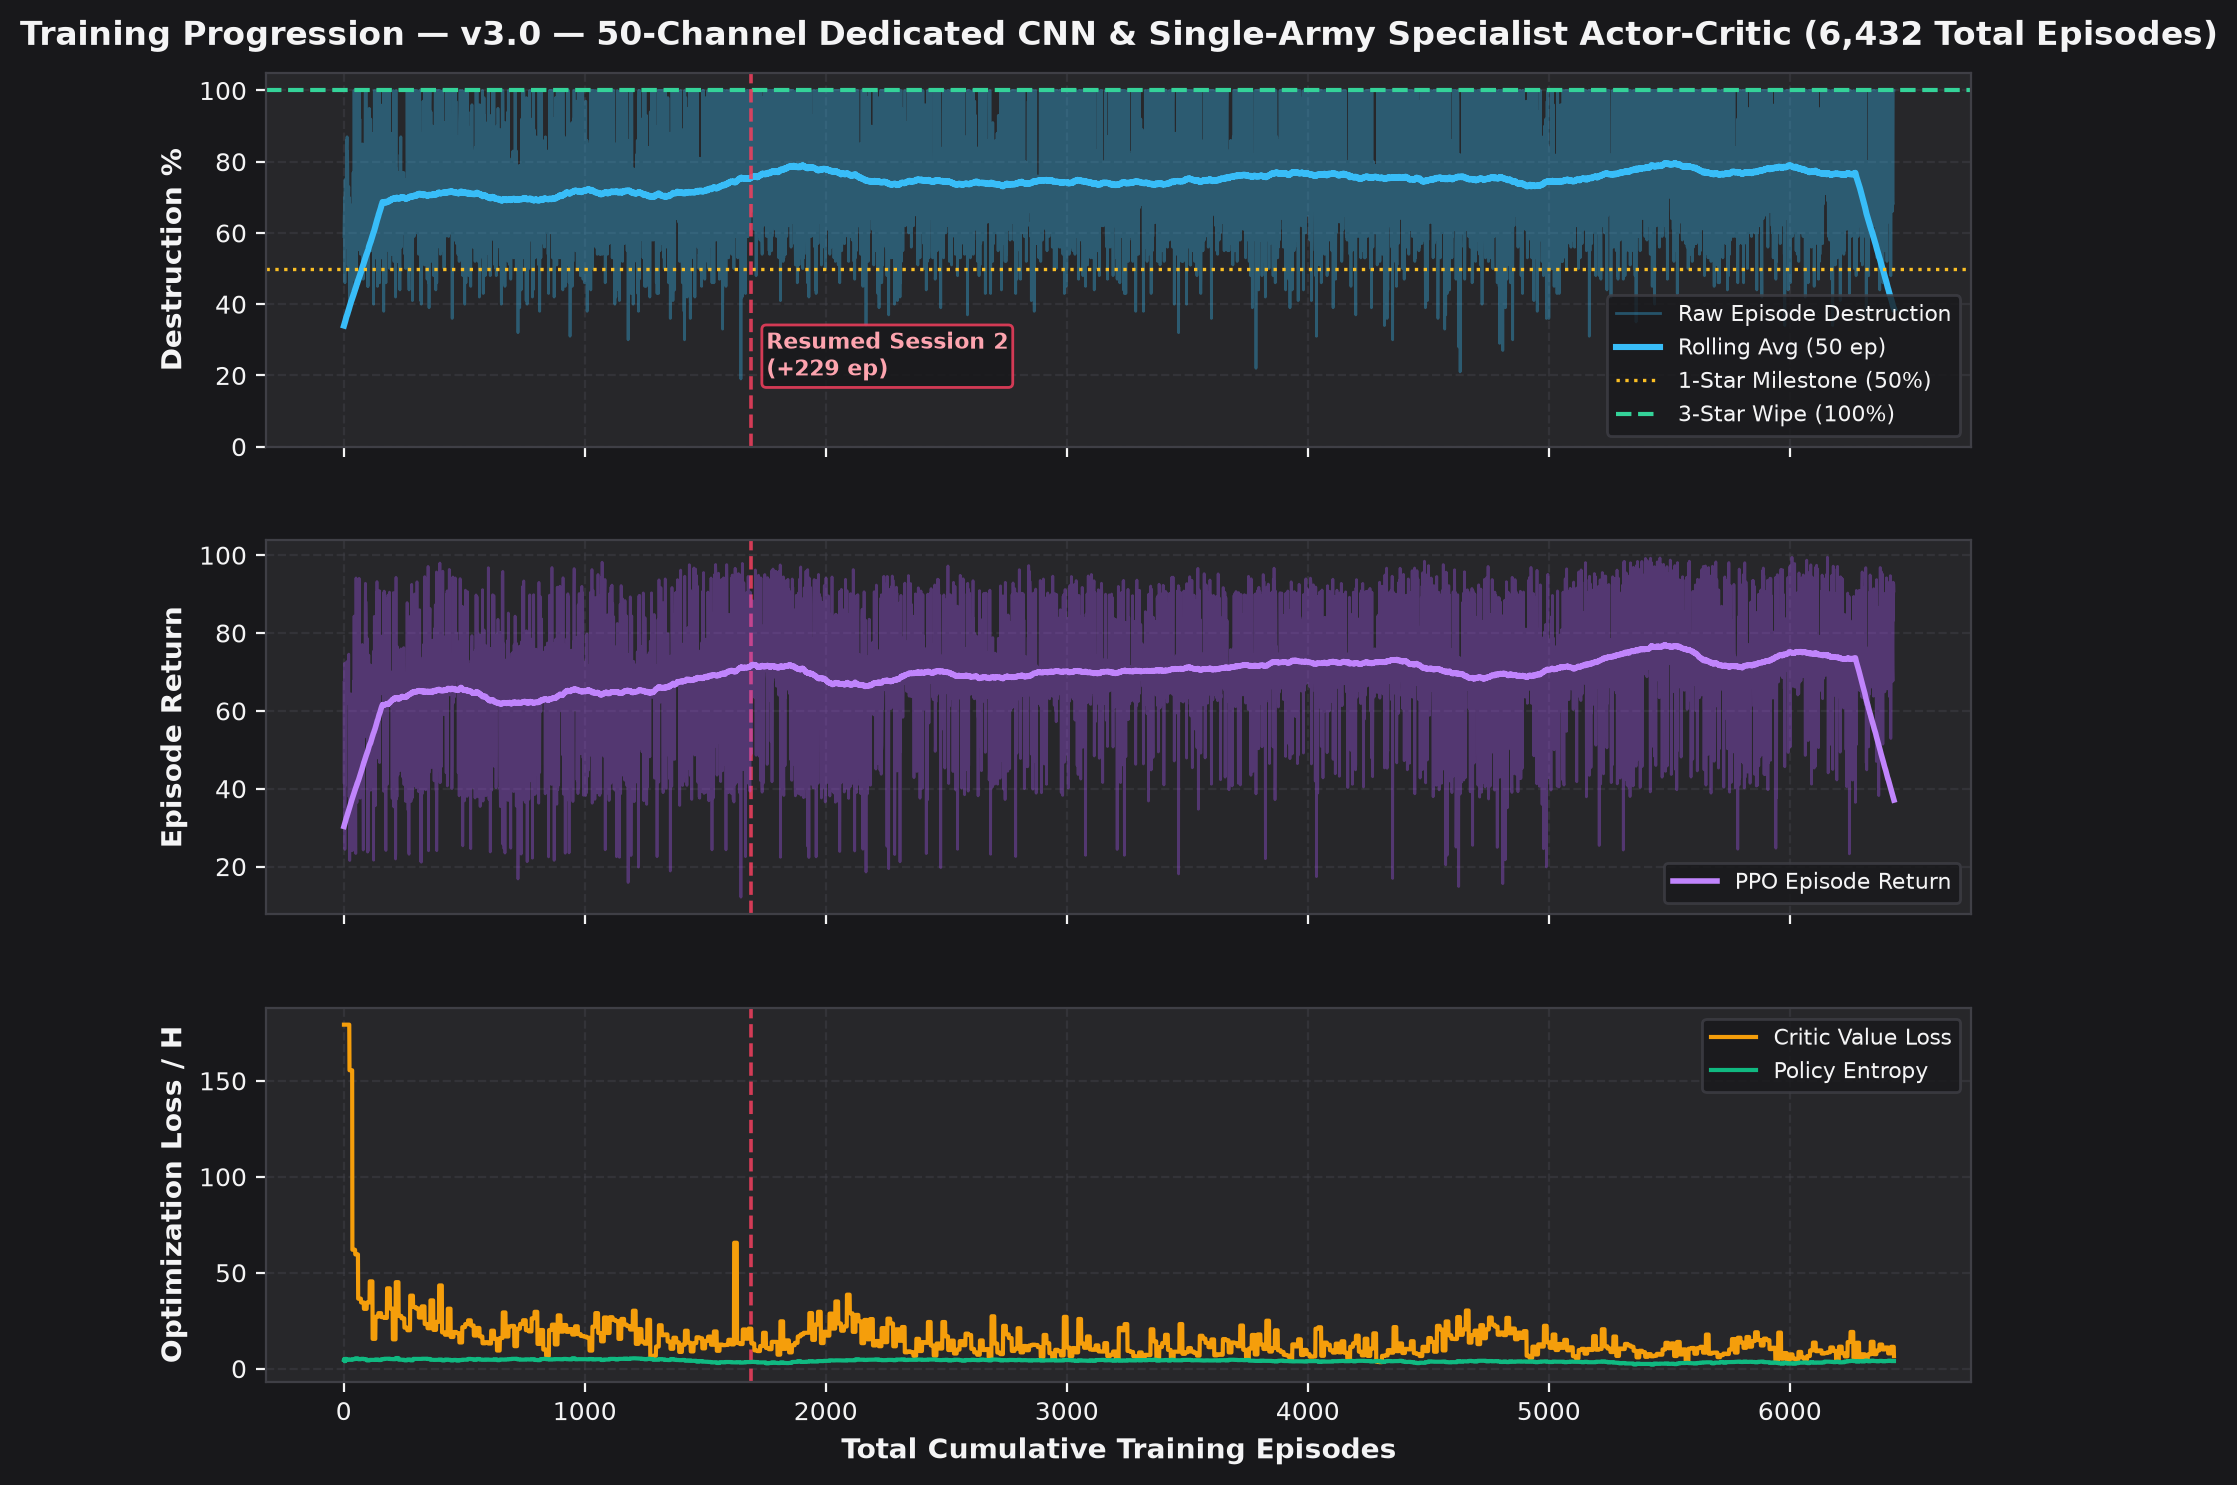
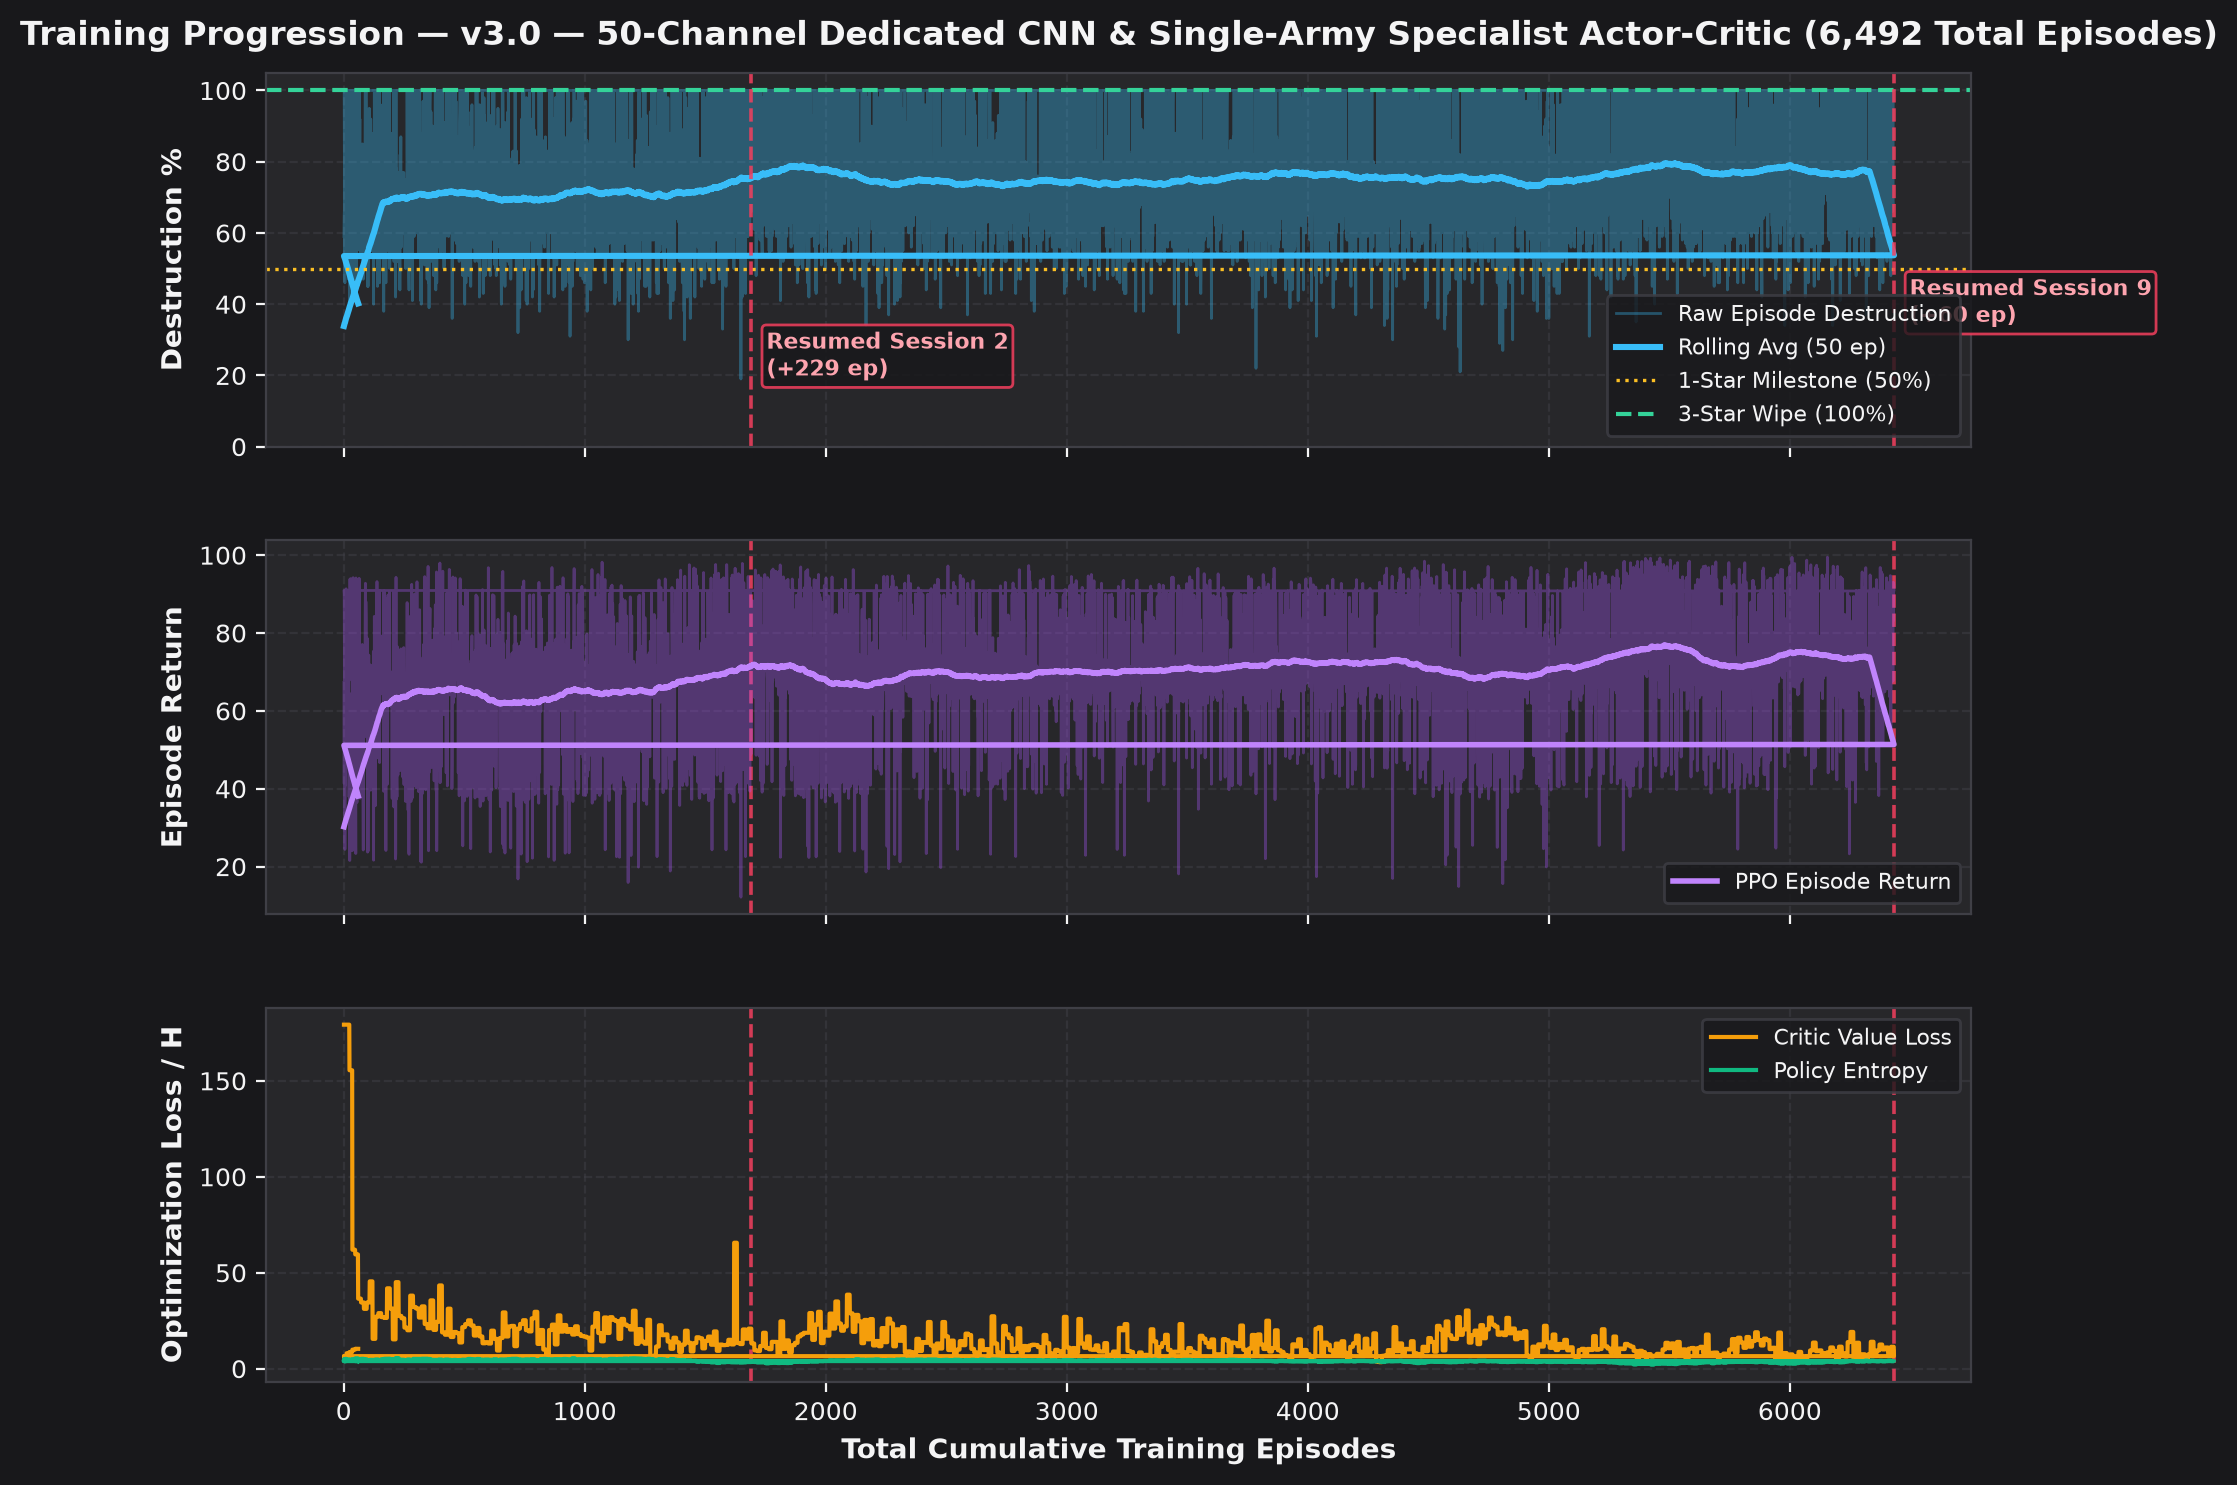
docs(vault): sync long-term memory up to f810ae8 (ADR-010)

diff --git a/obsidian_vault/decisions/Architecture_Decisions_And_System_Memory.md b/obsidian_vault/decisions/Architecture_Decisions_And_System_Memory.md
@@ -313,3 +313,19 @@ Defined in `CoCActorCritic` (`python/coc_rl/networks.py`), the policy parameteri
   3. **Batched (`B=12`) Rollouts & BF16 Tensor Core Acceleration (`python/coc_rl/networks.py`, `python/coc_rl/ppo.py`, `python/train_ai.py`)**: Enabled `torch.backends.cudnn.benchmark`, TF32 matmuls, and `torch.amp.autocast("cuda", dtype=torch.bfloat16)` on `CoCSpatialEncoder` (keeping `DilatedResBlock` normalized activations in `bfloat16` to avoid 500+ MB FP32 upcast overhead), eliminated per-step `.item()`/`probs` stalls, and vectorized `evaluate_model_matchups` across all 5 reference villages in parallel.
   4. **Zero-Allocation `/api/ai/status` Polling (`python/ai_server.py`)**: Cached architecture manifests and checkpoint metadata in memory so 1-second UI status polls never touch disk or allocate GPU tensors during training.
 - **Consequences**: Pure RL environment rollout throughput jumped **24.7×** (from `5.3 eps/s` to `130.9 eps/s` on 12 Ryzen threads); full end-to-end GPU PPO rollout throughput reached **>10,400–11,800 combat ticks/sec** (~11× faster than before) while eliminating the 7.4 GB VRAM leak during long training runs.
+
+### ADR-010: Incremental Git-Commit Drift Analysis & Synchronization State Tracking (`scripts/vault_diff.py` & `.sync_state.json`)
+- **Date**: 2026-10-30
+- **Status**: Accepted
+- **Context**:
+  1. **Full-Codebase Inspection Overhead**: The `vault-updater` long-term memory agent previously scanned full source files (`crates/coc-engine/src/sim.rs` with 6,500+ lines, `python/coc_rl/networks.py`, etc.) or unbounded `git diff` outputs on every invocation, consuming tens of thousands of tokens and taking several minutes per update.
+  2. **Lack of Commit State Memory**: When working directory changes were committed across multiple discrete Git commits, the agent lacked persistent memory of the exact commit SHA to which the Obsidian vault was synchronized, risking drift or missed intermediate commits.
+- **Decision**:
+  1. **Persistent Vault Sync State (`obsidian_vault/.sync_state.json`)**: Introduce a canonical, Git-tracked sync state storing `last_synced_commit` (full 40-char SHA), `last_synced_commit_short` (7-char SHA), `last_synced_at` (ISO timestamp), `last_synced_subject`, and `branch`.
+  2. **Visual & Machine-Readable Index Integration (`00_Index_MOC.md`)**: Automatically surface the latest synchronized commit in frontmatter metadata and an aesthetic callout banner at the top of the Master Map of Content.
+  3. **High-Density Incremental Diff CLI (`scripts/vault_diff.py`)**: Built a zero-dependency CLI tool that computes the exact commit range `last_synced_commit..HEAD`, categorizes modified files by domain (Simulation Core, Deep RL, Web Sandbox, Tooling), flags modified high-impact symbols (`extract_spatial_observation`, `extract_army_context`, `CoCActorCritic`, `PyVecBattleEnv`, etc.), and extracts targeted unified diffs.
+  4. **Optimized Agent Protocol**: Updated `vault-updater` instructions so that it exclusively inspects the targeted diffs from `scripts/vault_diff.py` rather than reading full source files, executes `.venv/bin/python python/generate_vault.py`, and records the new commit via `python3 scripts/vault_diff.py --mark-synced`.
+- **Consequences**:
+  - **Zero-Token No-Op Exits**: If no new commits or code changes occurred since the last sync, `scripts/vault_diff.py` exits immediately in <0.05 seconds with 0 tokens wasted.
+  - **90%+ Reduction in Agent Context & Latency**: The agent only parses the exact modified lines (typically 20–200 lines) instead of full 6,500-line engine files.
+  - **Deterministic Audit Trail**: Connects the Obsidian long-term memory ledger directly to the Git version control commit graph.

diff --git a/obsidian_vault/runs/v3_per_defense_31ch.md b/obsidian_vault/runs/v3_per_defense_31ch.md
@@ -3,10 +3,10 @@ title: "v3.0 — 50-Channel Dedicated CNN & Single-Army Specialist Actor-Critic"
 model_id: "v3_per_defense_31ch"
 arch_version: "3.0"
 status: "active"
-total_episodes: 6432
+total_episodes: 6492
 best_pct: 100
 best_stars: 3
-updated_at: "2026-10-30 23:10:25"
+updated_at: "2026-10-30 23:20:25"
 tags:
   - coc-rl
   - ppo
@@ -26,9 +26,9 @@ Back to [[00_Index_MOC|Vault Map of Content]] • View [[01_Model_Architecture_a
 - **Architecture Version**: `v3.0` (`1,375,288` Trainable Parameters)
 - **Dedicated Army Composition**: **`TH18 Thrower + Healer + Totem Smash (Meta)`** (Exported in `.pt` checkpoint metadata for testing)
 - **Active Status**: **ACTIVE**
-- **Total Episodes Trained**: **`6,432`** (Cumulative across **8** training sessions)
+- **Total Episodes Trained**: **`6,492`** (Cumulative across **9** training sessions)
 - **Peak Combat Performance**: **`100%` (3★)** (Best dense return: `+99.48079713290045`)
-- **Latest Checkpoint**: `trained_models/thrower_healer_totem_smash_ep6432_100pct_3star.pt`
+- **Latest Checkpoint**: `trained_models/thrower_healer_totem_smash_ep6492_100pct_3star.pt`
 
 ### 🔄 Resumed Training Sessions History
 | Session # | Start Ep | End Ep | Episodes Added | Checkpoint File | Peak % | Stars | Notes |
@@ -41,6 +41,7 @@ Back to [[00_Index_MOC|Vault Map of Content]] • View [[01_Model_Architecture_a
 | **#6** | `0` | `20` | `+20` | `thrower_healer_totem_smash_ep20_100pct_3star.pt` | `100%` | `3★` | Initial training (20 ep) on TH18 Thrower + Healer + Totem Smash (Meta) |
 | **#7** | `0` | `60` | `+60` | `thrower_healer_totem_smash_ep60_100pct_3star.pt` | `100%` | `3★` | Initial training (60 ep) on TH18 Thrower + Healer + Totem Smash (Meta) |
 | **#8** | `0` | `6,432` | `+6,432` | `thrower_healer_totem_smash_ep6432_100pct_3star.pt` | `100%` | `3★` | Initial training (6,432 ep) on TH18 Thrower + Healer + Totem Smash (Meta) |
+| **#9** | `6,432` | `6,492` | `+60` | `thrower_healer_totem_smash_ep6492_100pct_3star.pt` | `100%` | `3★` | Resumed training (+60 ep from thrower_healer_totem_smash_ep6432_100pct_3star.pt) on TH18 Thrower + Healer + Totem Smash (Meta) |
 
 ---
 
@@ -149,8 +150,8 @@ $$R_t = 0.35 \cdot \Delta \%_{\text{destr}} + 15.0 \cdot \Delta \text{HP}_{\text
 
 | Attack Composition | **Central Box** | **Offset Diamond** | **Anti-Hydra Ring** | **Anti-Fireball** | **Compact Teaser** | **Avg Destruction** | **3★ Rate** |
 | :--- | :---: | :---: | :---: | :---: | :---: | :---: | :---: |
-| **TH18 Thrower + Healer + Totem Smash** | `76% (2★)` | `61% (2★)` | `100% (3★)` | `65% (2★)` | `75% (2★)` | **75.4%** | **20.0%** |
-| **Base Defense Rate (Avg)** | **76.0% (2.0★)** | **61.0% (2.0★)** | **100.0% (3.0★)** | **65.0% (2.0★)** | **75.0% (2.0★)** | **Overall: 75.4%** | — |
+| **TH18 Thrower + Healer + Totem Smash** | `100% (3★)` | `78% (2★)` | `100% (3★)` | `100% (3★)` | `83% (2★)` | **92.2%** | **60.0%** |
+| **Base Defense Rate (Avg)** | **100.0% (3.0★)** | **78.0% (2.0★)** | **100.0% (3.0★)** | **100.0% (3.0★)** | **83.0% (2.0★)** | **Overall: 92.2%** | — |
 
 ---
 
@@ -181,4 +182,4 @@ See [[experiments/AI_Diagnostics_And_Training_Fixes|AI Training Diagnostics, Tel
 | **GAE ($\lambda$)** | `0.95` | Generalized Advantage Estimation smoothing |
 | **Clip Coefficient** | `0.2` | PPO surrogate objective clipping range |
 | **Entropy Coefficient** | `0.015` | Normalized per-head exploration policy entropy bonus |
-| **Total Training Episodes** | **`6,432`** | **Cumulative episodes across all resumed sessions** |
+| **Total Training Episodes** | **`6,492`** | **Cumulative episodes across all resumed sessions** |

diff --git a/obsidian_vault/00_Index_MOC.md b/obsidian_vault/00_Index_MOC.md
@@ -6,18 +6,24 @@ tags:
   - ppo
   - architecture
 updated: 2026-10-30
+last_synced_commit: "f810ae8"
+last_synced_at: "2026-10-30 22:20:26"
 ---
 
 # 🏰 CoC TH18 Deep RL — Architecture & Training Vault
 
-Welcome to the central research vault tracking our **v3.0 50-Channel Dedicated Spatial CNN & Single-Army Specialist Actor-Critic** architecture, input/output tensor specifications, per-troop, per-hero, per-spell, and per-defense spatial encodings, and empirical training benchmarks for Clash of Clans Town Hall 18.
+> [!NOTE] 🔄 Codebase Synchronization Status
+> **Synchronized Commit**: [`f810ae8`](file:///home/robin/Projects/CoC) &mdash; *feat(vault): add incremental git-commit diff analyzer and persistent sync state for vault-updater*
+> **Synced At**: `2026-10-30 22:20:26 UTC` • **Full SHA**: `f810ae865ad9be5595105956d167c3d47c6d27a2`
+
+Welcome to the central research vault tracking our **v3.0 59-Channel Dedicated Spatial CNN & Single-Army Specialist Actor-Critic** architecture, input/output tensor specifications, per-troop, per-hero, per-spell, and per-defense spatial encodings, and empirical training benchmarks for Clash of Clans Town Hall 18.
 
 ---
 
 ## 🧭 Primary Navigation
 
 ### 🎨 [[01_Model_Architecture_and_Training_Tracker.canvas|Interactive Model Architecture & Training Canvas]]
-Open the interactive 2D whiteboard visualizer presenting the 50-channel stacked CNN computation graph, live available inventory (`army_context`) fusion, single-army vs. 5-village benchmark matrices, training curves, and resumed training session timelines.
+Open the interactive 2D whiteboard visualizer presenting the 59-channel stacked CNN computation graph, live available inventory (`army_context`) fusion, single-army vs. 5-village benchmark matrices, training curves, and resumed training session timelines.
 
 ---
 
@@ -25,7 +31,7 @@ Open the interactive 2D whiteboard visualizer presenting the 50-channel stacked 
 
 | Model Run | Arch | Inputs (`obs` + `army_context`) | Dedicated Army Composition | Total Episodes | Peak Combat Record | Status |
 | :--- | :---: | :---: | :--- | :---: | :---: | :---: |
-| [[runs/v3_per_defense_31ch\|v3.0 — 50-Channel Dedicated CNN & Single-Army Specialist Actor-Critic]] | `v3.0` | `(59, 50, 50)` + `64D` | **TH18 Thrower + Healer + Totem Smash (Meta)** | **`6,432`** (8 sessions) | **`100%` (3★)** | **ACTIVE** |
+| [[runs/v3_per_defense_31ch\|v3.0 — 50-Channel Dedicated CNN & Single-Army Specialist Actor-Critic]] | `v3.0` | `(59, 50, 50)` + `64D` | **TH18 Thrower + Healer + Totem Smash (Meta)** | **`6,492`** (9 sessions) | **`100%` (3★)** | **ACTIVE** |
 
 ---
 
